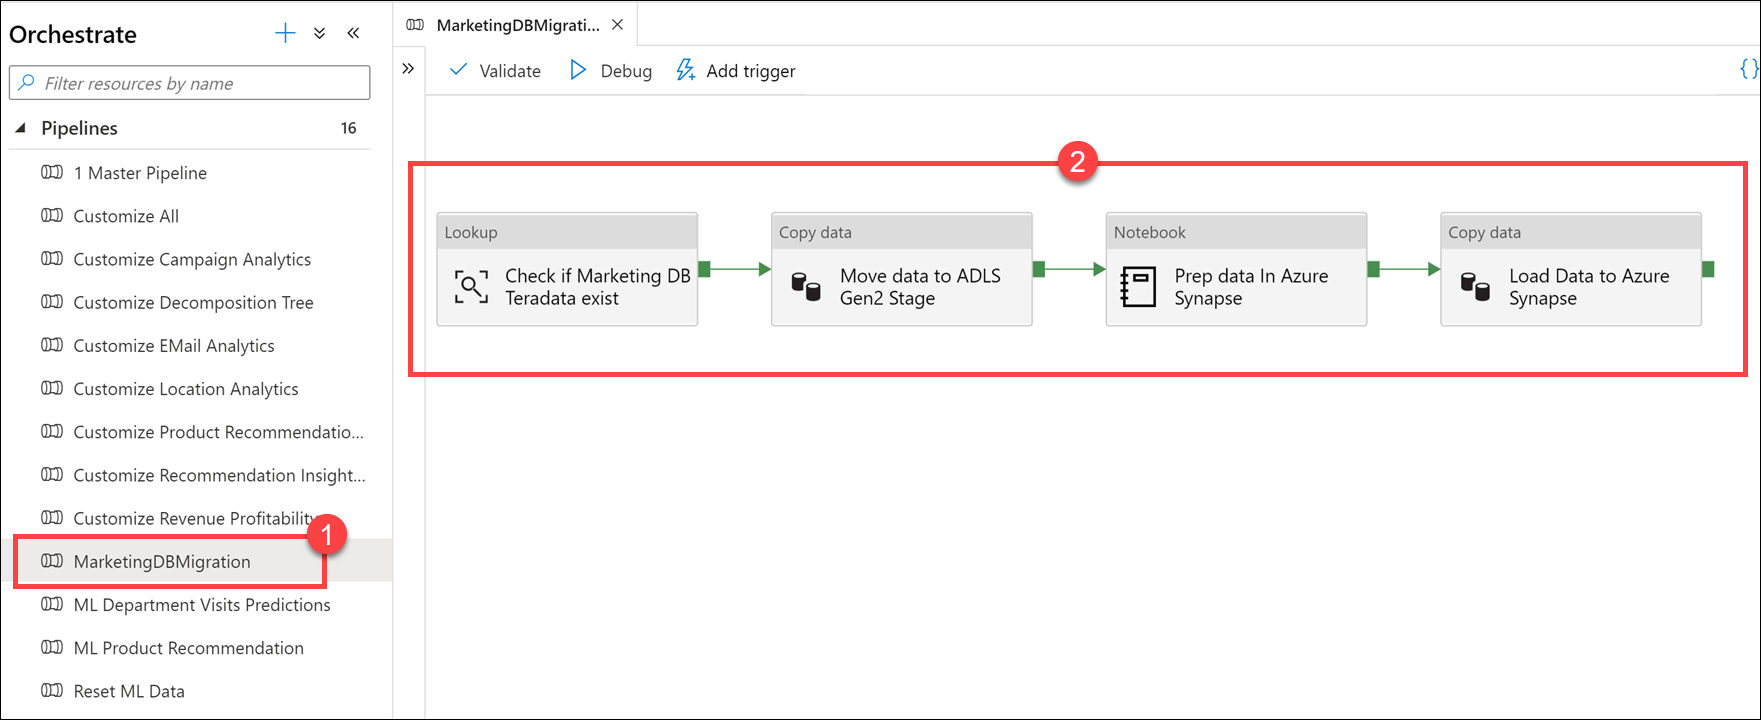
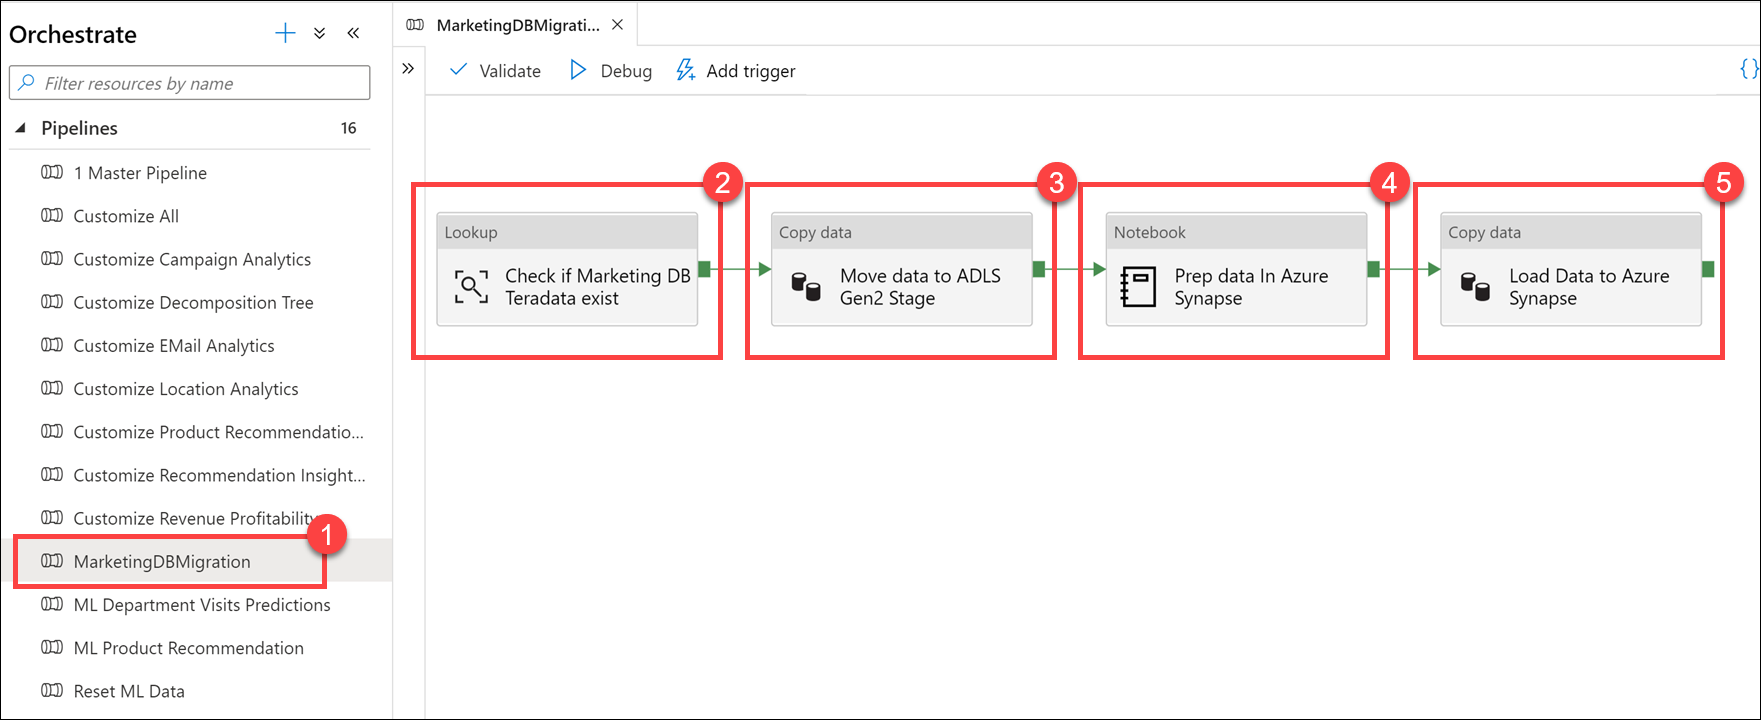
Clarification

Changed region(s): [[0.2186, 0.1833, 0.9994, 0.55]]

diff --git a/demos/module1/README.md b/demos/module1/README.md
@@ -296,7 +296,7 @@ Synapse Analytics enables you to ingest data from multiple data sources through 
 
     ![The pipeline is displayed.](media/pipeline-marketingdbmigration.png "MarketingDBMigration pipeline")
 
-    This pipeline is responsible for copying data from a Teradata database. The first activity is a lookup to make sure that the source data exists. If data exists, it flows to the copy data activity to move the source data into the data lake (ADLS Gen2 primary data source). The next step is a Notebook activity, which uses Apache Spark within a Synapse Notebook to perform data engineering tasks. The last step is another copy data activity that loads the prepared data and stores it into an Azure Synapse SQL pool table.
+    This pipeline is responsible for copying data from a Teradata database. The first activity is a **lookup** **(2)** to make sure that the source data exists. If data exists, it flows to the **copy data activity** **(3)** to move the source data into the data lake (ADLS Gen2 primary data source). The next step is a **Notebook activity** **(4)**, which uses Apache Spark within a Synapse Notebook to perform data engineering tasks. The last step is another **copy data activity** **(5)** that loads the prepared data and stores it into an Azure Synapse SQL pool table.
 
     This workflow is common when conducting data movement orchestration. Synapse Analytics pipelines makes it easy to define data movement and transformation steps, and encapsulates these steps into a repeatable process that you can maintain and monitor within your modern data warehouse.
 
